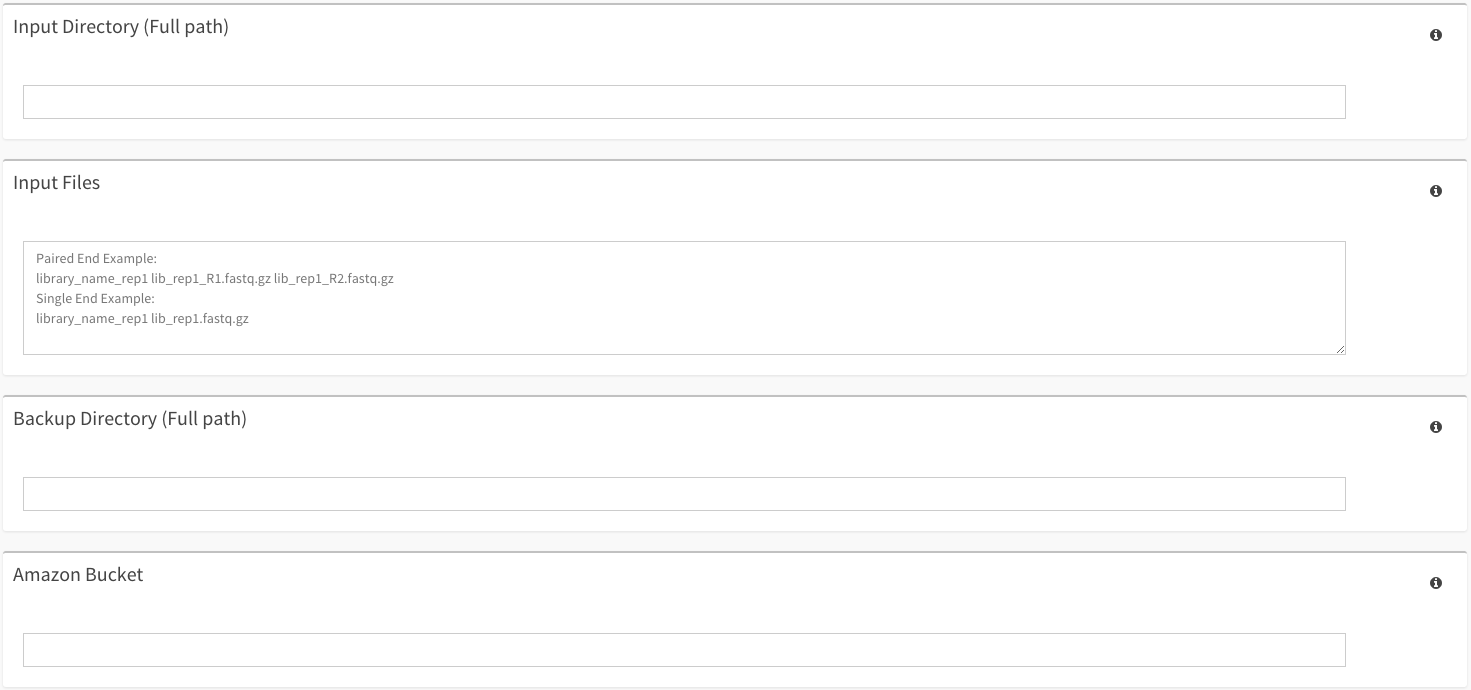
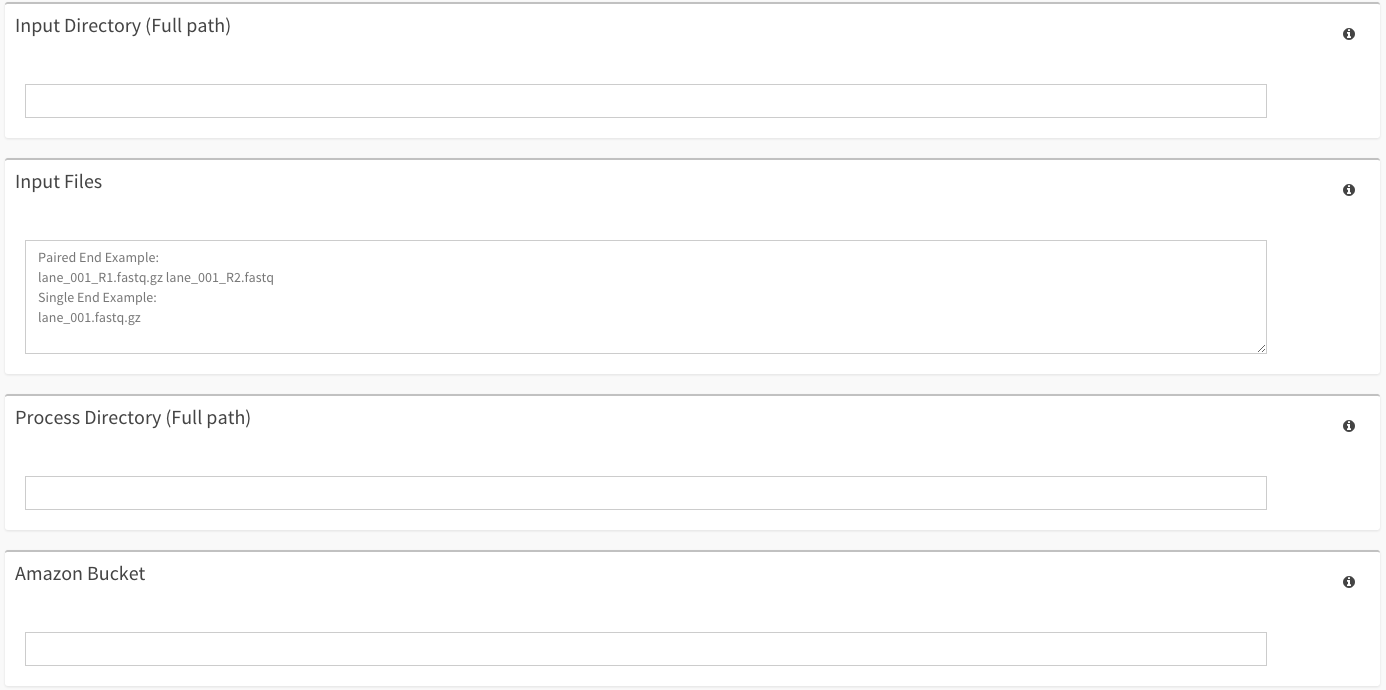
fastlane/imports

diff --git a/docs/dolphin-ui/excelimport.rst b/docs/dolphin-ui/excelimport.rst
@@ -14,7 +14,7 @@ Once logged in, click on the 'NGS Tracking' tab on the left, then click on 'Exce
 .. image:: dolphin_pics/menu_bar.png
 	:align: center
 
-From here, under the 'Excel file input' button, there is a link to download an example excel input.  Download the example file and you'll be ready to start adding your data.
+From here, under the 'Excel file input' button, there is a link to download an example excel input.  Download the example spreadsheet and you'll be ready to start adding your data.
 
 You can also download the example spreadsheet here: 
 	
@@ -33,6 +33,8 @@ The spreadsheet contains multiple tabs that will help you organize your informat
 
 .. image:: dolphin_pics/excel_tabs.png
 	:align: center
+	
+If using the single input directory spreadsheet, there will not be a 'DIRS' tab within the spreadsheet.
 
 **META-DATA:**
 
@@ -52,14 +54,20 @@ This tab will ask for information on:
 
 * *contributor:* First name, Initial, Last name.  You may add additional contributors by creating more 'contributor' cells in the A column with the actual contributors in the B column.
 
-* *processed directory:* Full path for the output directory
+* *processed directory:* Full path for the processed output directory.  This path is where you want to keep all of the data generated.
 
 * *amazon bucket:* Optional amazon bucket link
 
 This is the only tab that will ask for information in a single column (column B).  The rest of the tabs will ask for information in rows.
 
+Additionally, if using the single input directory spreadsheet, the Metadata tab will include:
+
+* *input directory:* Full path for the input directory.  This path contains the fastq files you want to process.
+
 Note that to add additional Imports/Samples to an already exsisting Experiment Series, the information about the experiment must be identical to that you are adding to.
-Processed director, and amazon bucket does not have to be identical for each submission.
+Processed directory, and amazon bucket does not have to be identical for each submission.
+
+Please note that every field except contributor and amazon bucket are required fields
 
 **IMPORTS:**
 
@@ -191,7 +199,7 @@ Please note that Sample name must be present and the Import name and Protocol na
 
 **DIRS:**
 
-Short for directories, this tab indicated all the of directories in which your fastq data are stored.
+Short for directories, this tab indicated all the of directories in which your fastq data are stored.  If using the single input directory spreadsheet, this tab will not be present.
 
 There can be multiple entries on this tab.
 
@@ -214,6 +222,8 @@ File information includes:
 * *Directory ID:* A specified ID to associate to directories within the dirs tab.
 
 * *file name(comma separated for paired ends):* The file fastq file name.  If paired end, list both files seperated by a comma.
+
+Please note that these fields are all required, and that if using the single directory input spreadsheet the directory id will not be present.
 
 Preparing for Submission of Your Excel Spreadsheet
 ==================================================

diff --git a/docs/dolphin-ui/fastlane.rst b/docs/dolphin-ui/fastlane.rst
@@ -114,9 +114,9 @@ It's important to note that samples are to be separated by a new line.  An examp
 
 Examples listed within the website will change based on whether or not barcode separation is selected.  Bot Paired-end and single land examples are provided within the grey.
 
-**Backup Directory:**
+**Processed Directory:**
 
-This section will list the exact location of where the backup results/information will be stored.
+This section will list the exact location of where the backup/results information will be stored.
 
 The full path of the directory must be given.
 
